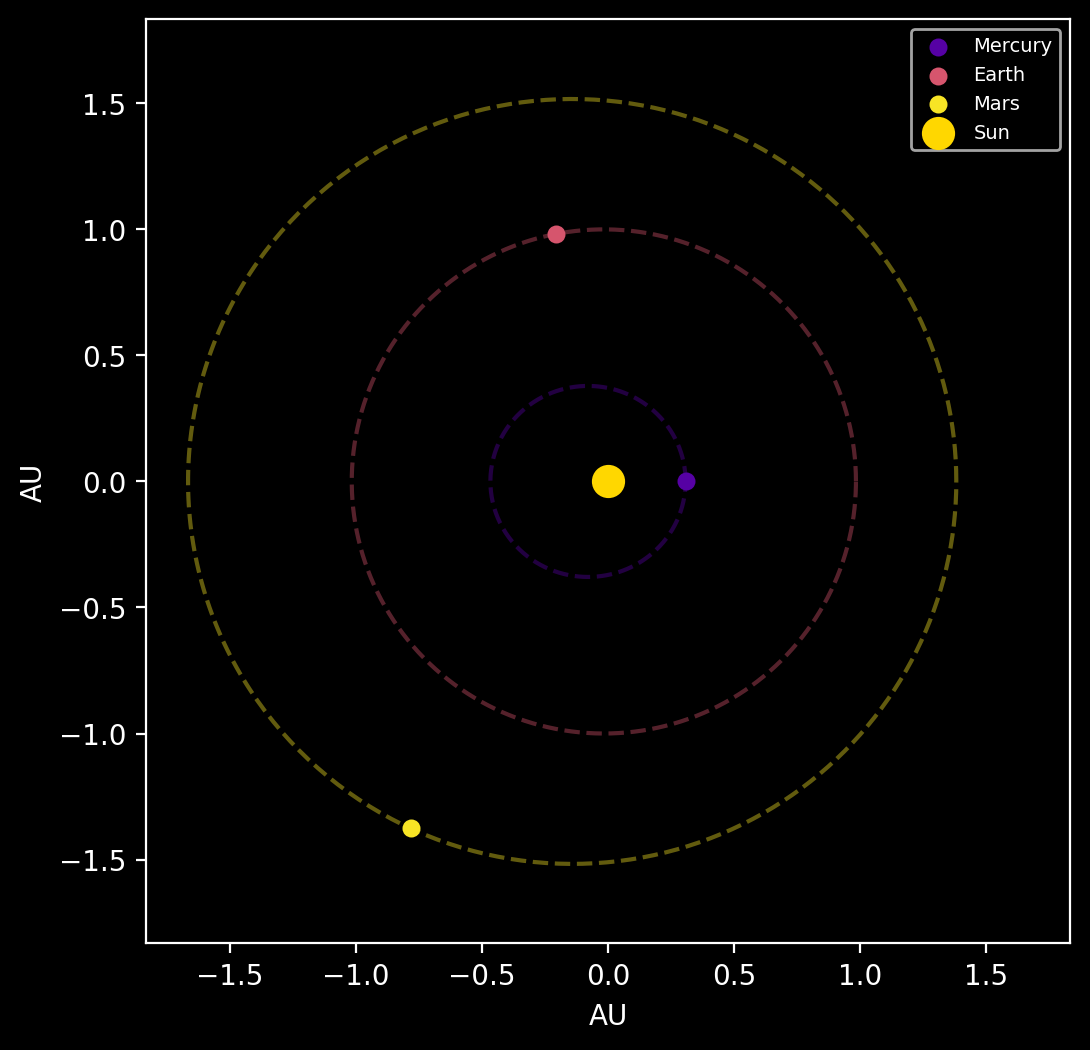
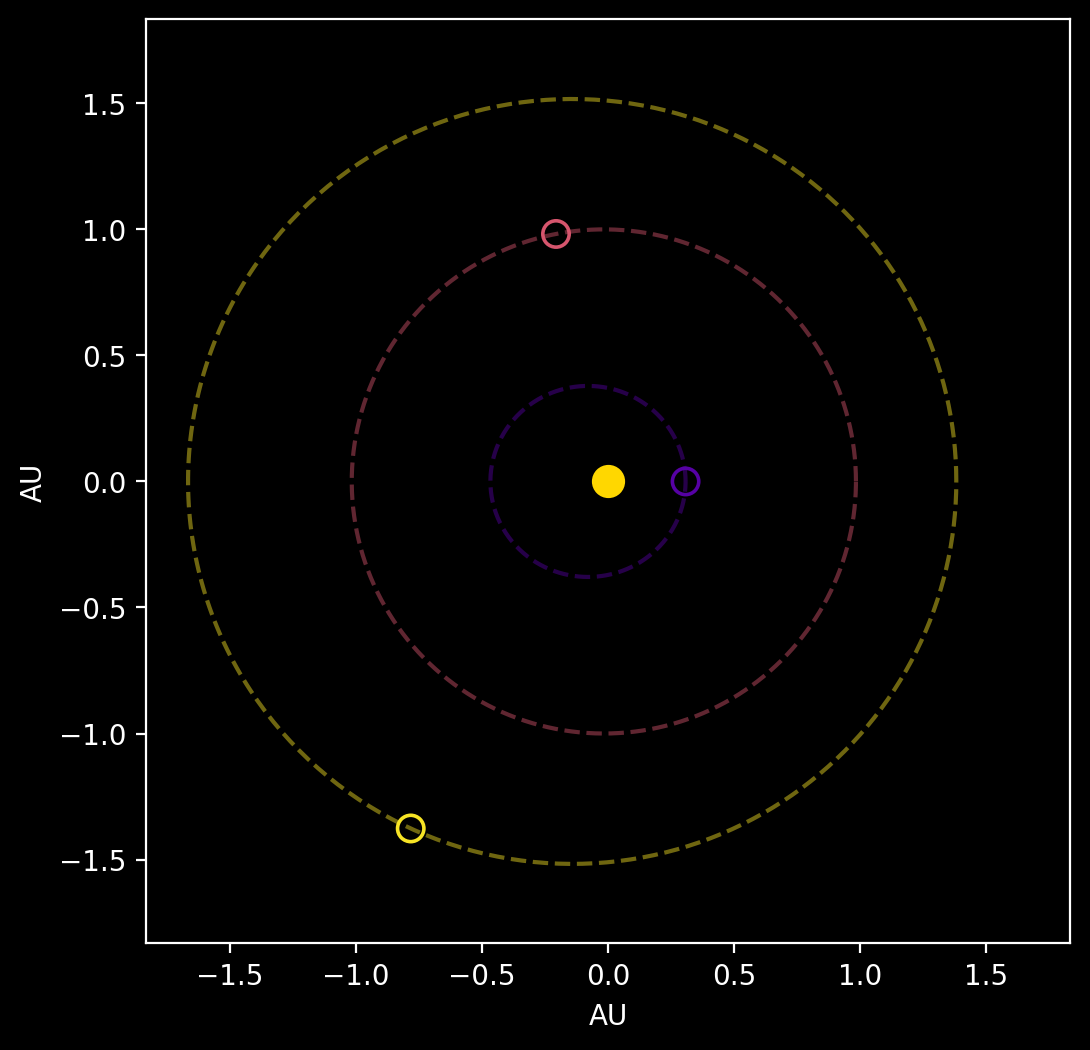
kinda have better animations

diff --git a/second_prototype/solar_system.py b/second_prototype/solar_system.py
@@ -165,68 +165,88 @@ def precompute(bodies,total_days,dt, M_central, elliptical):
 # ──────────────────────────────────────────────────────────────────────────────
 #   Plotting & animation
 # ──────────────────────────────────────────────────────────────────────────────
-def static_overview(ax,bodies,elliptical):
-    cmap=plt.cm.plasma
-    colors=cmap(np.linspace(0.15,0.95,len(bodies)))
-    lim=0
-    for body,c in zip(bodies,colors):
-        a,e=elements(body)
+def static_overview(ax, bodies, traj0, elliptical):
+    cmap   = plt.cm.plasma
+    colors = cmap(np.linspace(0.15, 0.95, len(bodies)))
+
+    lim = 0
+    for (body, start_xy, col) in zip(bodies, traj0, colors):
+        a, e = elements(body)
         if elliptical:
-            th=np.linspace(0,2*math.pi,400)
-            r=a*(1-e**2)/(1+e*np.cos(th))
-            ax.plot(r*np.cos(th),r*np.sin(th),'--',color=c,alpha=0.4)
+            th = np.linspace(0, 2 * math.pi, 400)
+            r  = a * (1 - e ** 2) / (1 + e * np.cos(th))
+            ax.plot(r * np.cos(th), r * np.sin(th), "--", color=col, alpha=0.45)
         else:
-            circ=plt.Circle((0,0),a,fill=False,ls='--',color=c,alpha=0.4)
+            circ = plt.Circle((0, 0), a, fill=False, ls="--", color=col, alpha=0.45)
             ax.add_patch(circ)
-        lim=max(lim,body["aphelion"])
-        # starting dot
-        pos=position_at_time(body,0,1) if elliptical else np.array([a,0])
-        ax.scatter(*pos,color=c,s=30,label=body["name"])
-    ax.scatter(0,0,color='gold',s=120,zorder=5,label="Sun")
-    ax.set_aspect('equal')
+
+        # checkpoint dot (hollow) sitting at the true start position
+        ax.scatter(*start_xy, s=90, facecolors="none",
+                   edgecolors=col, linewidths=1.3, zorder=5)
+        lim = max(lim, body["aphelion"])
+
+    ax.scatter(0, 0, color="gold", s=120, zorder=6, label="Sun")
+    ax.set_aspect("equal")
     ax.set_xlabel("AU"); ax.set_ylabel("AU")
-    ax.set_xlim(-1.1*lim,1.1*lim); ax.set_ylim(-1.1*lim,1.1*lim)
-    ax.legend(fontsize=7,loc='upper right')
+    ax.set_xlim(-1.1 * lim, 1.1 * lim); ax.set_ylim(-1.1 * lim, 1.1 * lim)
 
-def animate(bodies,t_arr,traj,elliptical,save=False):
-    cmap=plt.cm.plasma
-    colors=cmap(np.linspace(0.15,0.95,len(bodies)))
-    orbits=[period(elements(b)[0],1) for b in bodies]
+def animate(bodies, t_arr, traj, elliptical, save=False):
+    """
+    Increment counter exactly when the planet passes its start‐point.
+    Counter *always* starts at 0.
+    """
+    import math, numpy as np
+    cmap   = plt.cm.plasma
+    colors = cmap(np.linspace(0.15, 0.95, len(bodies)))
 
-    fig,ax=plt.subplots(figsize=(6,6),facecolor='k')
-    fig.patch.set_facecolor('k')
-    ax.set_facecolor('k')
-    static_overview(ax,bodies,elliptical)  # draws orbits faintly
+    start_xy = traj[:, 0]                               # (N,2) first position
+    theta0   = np.arctan2(start_xy[:, 1], start_xy[:, 0])
+    prev_phi = np.zeros(len(bodies))                    # previous wrapped φ
+    counter  = np.zeros(len(bodies), dtype=int)         # integer orbits
 
-    pts=[ax.plot([],[],'o',color=c)[0] for c in colors]
-    trails=[ax.plot([],[],'-',color=c,lw=1)[0] for c in colors]
-    txts=[ax.text(0,0,'',color=c,fontsize=8,ha='left',va='bottom')
-          for c in colors]
+    # ── Figure and static backdrop ───────────────────────────────────────
+    fig, ax = plt.subplots(figsize=(6, 6), facecolor="k")
+    fig.patch.set_facecolor("k");  ax.set_facecolor("k")
+    static_overview(ax, bodies, start_xy, elliptical)   # shows hollow ring
 
+    movers  = [ax.plot([], [], "o", color=c, zorder=4)[0] for c in colors]
+    trails  = [ax.plot([], [], "-", color=c, lw=1)[0]      for c in colors]
+    labels  = [ax.text(xy[0], xy[1], "0", color="w", fontsize=8,
+                       ha="center", va="center", zorder=6)
+               for xy in start_xy]
+
+    # ── animator helpers ────────────────────────────────────────────────
     def init():
-        for p,t,l in zip(pts,trails,txts):
-            p.set_data([],[])
-            t.set_data([],[])
-            l.set_text('')
-        return pts+trails+txts
+        for m, t in zip(movers, trails):
+            m.set_data([], [])
+            t.set_data([], [])
+        return movers + trails + labels
 
     def update(frame):
-        for i,(p,t,l) in enumerate(zip(pts,trails,txts)):
-            px,py=traj[i,frame]
-            p.set_data([px],[py])
-            # trail:
-            t.set_data(traj[i,:frame+1,0],traj[i,:frame+1,1])
-            n_orb=int(t_arr[frame]//orbits[i])
-            label=bodies[i]["name"]+ (f" ×{n_orb}" if n_orb>0 else "")
-            l.set_text(label)
-            l.set_position((px*1.05,py*1.05))
-        return pts+trails+txts
+        for i, (mov, trl, lbl) in enumerate(zip(movers, trails, labels)):
+            x, y = traj[i, frame]
+            mov.set_data([x], [y])
+            trl.set_data(traj[i, :frame + 1, 0], traj[i, :frame + 1, 1])
 
-    ani=FuncAnimation(fig,update,frames=len(t_arr),
-                      init_func=init,interval=30,blit=True)
+            # current polar angle, then wrapped φ in [0, 2π)
+            theta = math.atan2(y, x)
+            phi   = (theta - theta0[i]) % (2 * math.pi)
+
+            # detect wrap‑around (passed the start point)
+            if phi < prev_phi[i] - 1e-6:       # crossed from high (~6.28) to low (~0)
+                counter[i] += 1                # completed an orbit
+                lbl.set_text(str(counter[i]))  # update number
+
+            prev_phi[i] = phi                  # store for next frame
+        return movers + trails + labels
+
+    ani = FuncAnimation(fig, update, frames=len(t_arr),
+                        init_func=init, interval=30, blit=True)
+
     if save:
-        ani.save("orbit_anim.gif",writer="pillow",fps=30)
+        ani.save("orbit_anim.gif", writer="pillow", fps=30)
         print("GIF saved to orbit_anim.gif")
+
     plt.show()
 
 # ──────────────────────────────────────────────────────────────────────────────
@@ -257,8 +277,11 @@ def main():
 
     # 1. static figure always
     plt.style.use('dark_background')
-    fig,ax=plt.subplots(figsize=(6,6))
-    static_overview(ax,bodies,args.ellip)
+    fig, ax = plt.subplots(figsize=(6, 6))
+    static_overview(ax, bodies, 
+                    traj0=np.array([position_at_time(b, 0, 1) if args.ellip else position_circle(b, 0, 1) for b in bodies]),
+                    elliptical=args.ellip)
+
     fig.savefig("orbit_overview.png",dpi=200,bbox_inches='tight')
     print("Static plot saved to orbit_overview.png")
     if args.static:
